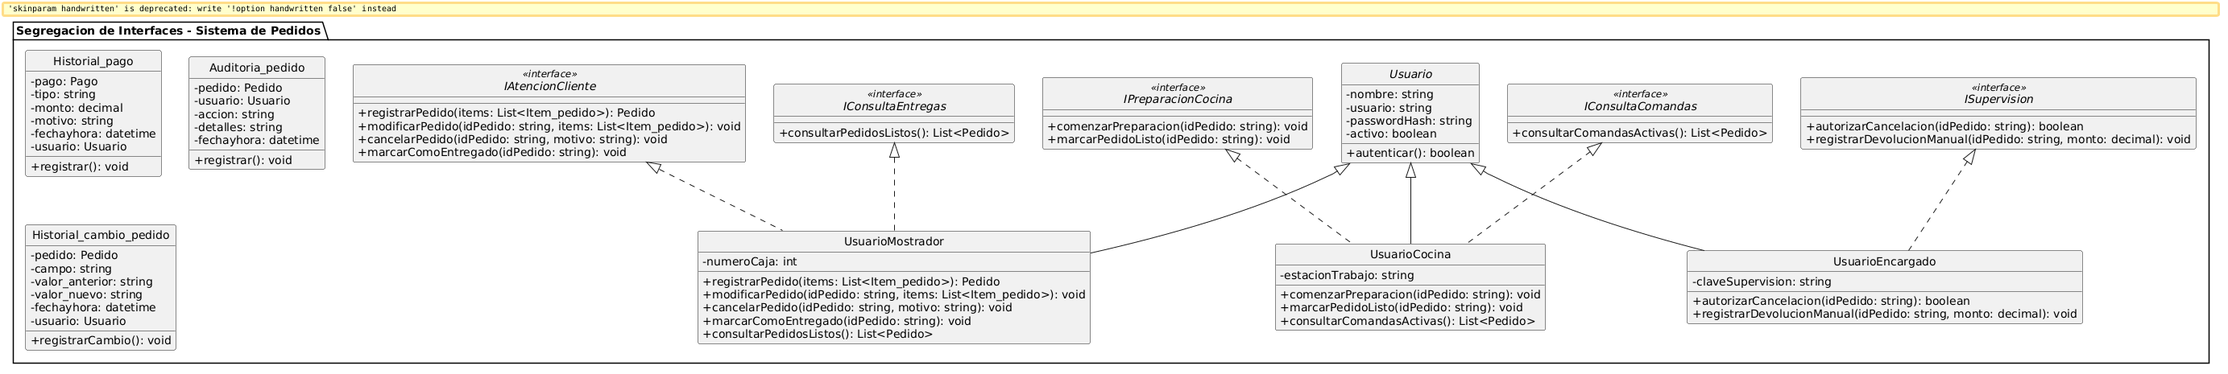
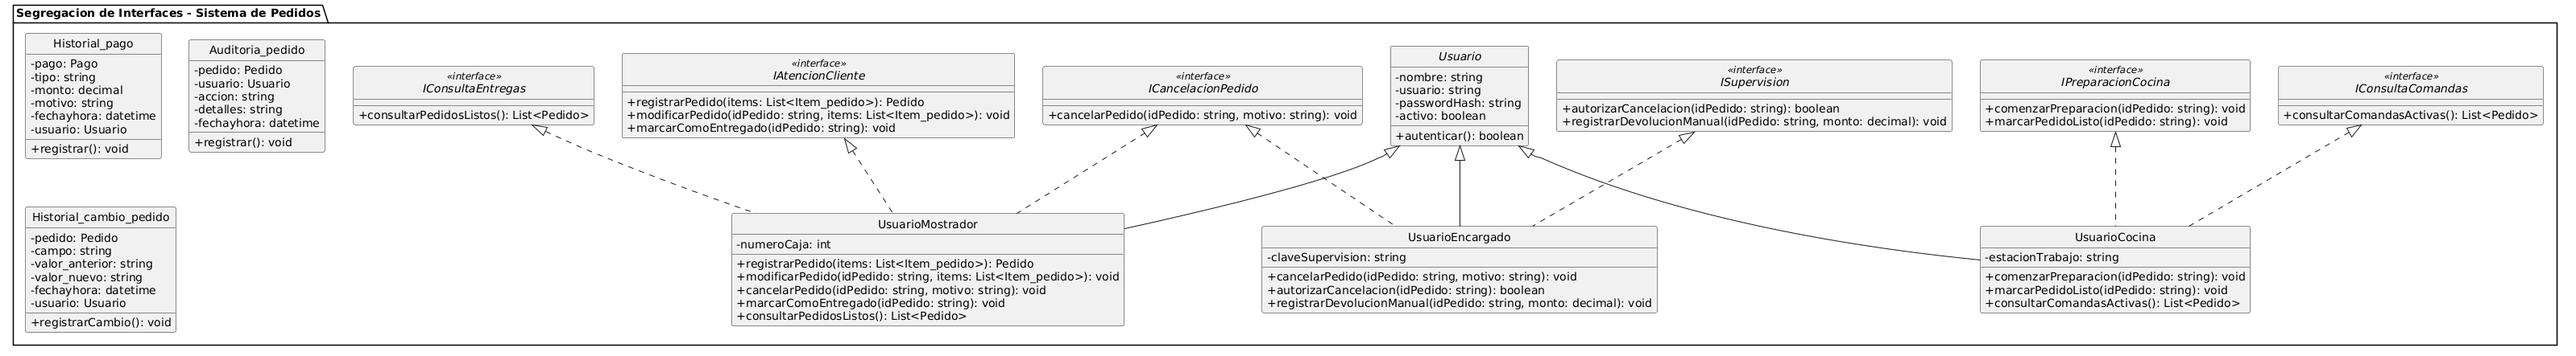
fix(isp): extraer ICancelacionPedido, reemplazar directiva obsoleta y regenerar PNG

diff --git a/anexos/principios-solid/04-isp.md b/anexos/principios-solid/04-isp.md
@@ -25,7 +25,7 @@ Si definiéramos una única interfaz monolítica de gestión operativa (por ejem
 Al intentar aplicar esta interfaz "gorda":
 1. **`UsuarioCocina`** solo necesita preparar los pedidos y consultar las comandas activas (`comenzarPreparacion()`, `marcarPedidoListo()`, `consultarComandasActivas()`). Al obligarlo a implementar una interfaz monolítica, se vería forzado a incluir métodos vacíos o lanzar excepciones para las otras 7 operaciones, como `autorizarCancelacion()` o `registrarPedido()`.
 2. **`UsuarioMostrador`** se encarga de la atención al cliente y cobro (`registrarPedido()`, `modificarPedido()`, `cancelarPedido()`, `marcarComoEntregado()`) y de consultar los pedidos listos para entregar (`consultarPedidosListos()`), pero no tiene la responsabilidad de autorizar cancelaciones ni supervisar estaciones de cocina, por lo que quedaría obligado a implementar otras 5 operaciones que no le corresponden.
-3. **`UsuarioEncargado`** realiza tareas avanzadas de supervisión como `autorizarCancelacion()` y `registrarDevolucionManual()`, y tendría que implementar las otras 8 operaciones sin necesitarlas.
+3. **`UsuarioEncargado`** participa en la cancelación de pedidos (`cancelarPedido()`) y realiza tareas avanzadas de supervisión como `autorizarCancelacion()` y `registrarDevolucionManual()`, y tendría que implementar las otras 7 operaciones sin necesitarlas.
 
 ### Ejemplo del problema (pseudocódigo)
 Con la interfaz monolítica, `UsuarioCocina` terminaría escribiendo código como el siguiente:
@@ -52,9 +52,9 @@ Cualquier código que reciba una `IGestionOperativa` podría invocar uno de esos
 
 | Clase | Métodos exigidos por la interfaz gorda | Métodos que realmente usa | Métodos innecesarios | Con interfaces segregadas |
 | :---- | :-: | :-: | :-: | :------------------------ |
-| `UsuarioMostrador` | 10 | 5 | 5 | Implementa `IAtencionCliente` e `IConsultaEntregas` (5 métodos) |
+| `UsuarioMostrador` | 10 | 5 | 5 | Implementa `IAtencionCliente`, `ICancelacionPedido` e `IConsultaEntregas` (5 métodos) |
 | `UsuarioCocina` | 10 | 3 | 7 | Implementa `IPreparacionCocina` e `IConsultaComandas` (3 métodos) |
-| `UsuarioEncargado` | 10 | 2 | 8 | Implementa solo `ISupervision` (2 métodos) |
+| `UsuarioEncargado` | 10 | 3 | 7 | Implementa `ICancelacionPedido` e `ISupervision` (3 métodos) |
 
 ### Registros y trazabilidad: por qué no se unifican
 Las clases `Historial_pago`, `Auditoria_pedido` e `Historial_cambio_pedido` registran hechos distintos: movimientos de dinero, acciones realizadas sobre un pedido y cambios de campos de un pedido, respectivamente. Aunque las tres exponen una operación de registro, **compartir un nombre de método no justifica una interfaz común**. Unificarlas bajo un contrato genérico (por ejemplo, `IRegistrable`) no aportaría beneficio alguno, porque ningún componente del sistema necesita tratarlas de forma polimórfica, y las obligaría a depender de un contrato que no refleja la naturaleza distinta de cada registro.
@@ -73,51 +73,8 @@ Para cumplir con el principio ISP en nuestro sistema, las interfaces operan como
 ## Estructura de Clases
 
 Para resolver la rigidez del diseño, se segregaron las responsabilidades de los usuarios en interfaces pequeñas y especializadas:
-- **`IAtencionCliente`**: Define las operaciones de atención en caja o mostrador (`registrarPedido()`, `modificarPedido()`, `cancelarPedido()`, `marcarComoEntregado()`).
+- **`IAtencionCliente`**: Define las operaciones de atención en caja o mostrador (`registrarPedido()`, `modificarPedido()`, `marcarComoEntregado()`).
+- **`ICancelacionPedido`**: Define la operación de cancelación de un pedido (`cancelarPedido()`), que el caso de uso *Cancelar pedido* (CU03) asigna tanto al usuario de mostrador como al encargado. Se separó de `IAtencionCliente` y de `ISupervision` para que cada actor dependa únicamente de la cancelación, sin cargar con las demás funciones de atención al cliente ni de supervisión.
 - **`IConsultaEntregas`**: Permite al mostrador consultar los pedidos que ya están listos para entregar (`consultarPedidosListos()`).
 - **`IPreparacionCocina`**: Contiene exclusivamente las operaciones de preparación en cocina (`comenzarPreparacion()`, `marcarPedidoListo()`).
-- **`IConsultaComandas`**: Permite a la cocina consultar las comandas activas pendientes de preparación (`consultarComandasActivas()`).
-- **`ISupervision`**: Agrupa únicamente los permisos y acciones avanzadas del encargado (`autorizarCancelacion()`, `registrarDevolucionManual()`).
-
-Las consultas se separaron por rol porque el caso de uso *Consultar Pedidos Activos* define vistas diferenciadas por actor: la cocina visualiza los pedidos en estado `RECIBIDO` y `EN_PREPARACION`, mientras que el mostrador visualiza los pedidos en estado `LISTO`. De esta forma, cada rol depende únicamente de la consulta que necesita.
-
-Las clases de registro (`Historial_pago`, `Auditoria_pedido` e `Historial_cambio_pedido`) no implementan interfaces: cada una mantiene su propia operación de registro (`registrar()` en `Historial_pago` y `Auditoria_pedido`, y `registrarCambio()` en `Historial_cambio_pedido`).
-
-### Relación entre clases, interfaces y casos de uso
-
-| Clase | Interfaces que implementa | Casos de uso relacionados |
-| :---- | :------------------------ | :------------------------ |
-| `UsuarioMostrador` | `IAtencionCliente`, `IConsultaEntregas` | Tomar pedido, Modificar pedido, Cancelar pedido (solicitud del cliente), Cambiar estado de `LISTO` a `ENTREGADO`, Consultar pedidos activos (vista de entregas) |
-| `UsuarioCocina` | `IPreparacionCocina`, `IConsultaComandas` | Cambiar estado de `RECIBIDO` a `EN_PREPARACION` y de `EN_PREPARACION` a `LISTO`, Consultar pedidos activos (vista de comandas) |
-| `UsuarioEncargado` | `ISupervision` | Cancelar pedido: autorización de cancelaciones en preparación y devoluciones manuales |
-
-### Diagrama UML - ISP
-
-![Diagrama UML - ISP](../../diagramas/01-diagrama-clases/01-solid-04-isp.png)
-
-> **Ver archivo de origen PlantUML:** [01-solid-04-isp.puml](../../diagramas/01-diagrama-clases/01-solid-04-isp.puml)
-
----
-
-## Relación con otros principios
-
-ISP también se aplica en otras partes del diseño, documentadas en sus respectivos anexos:
-- **`IElaborable` ([LSP](./03-lsp.md))**: contrato mínimo para lo que se puede preparar en cocina. Lo implementa solo `ProductoPreparado`, de modo que `ProductoEnvasado` no queda obligado a un método que no puede cumplir. No debe confundirse con `IPreparacionCocina`: `IElaborable` describe una capacidad de un **producto**, mientras que `IPreparacionCocina` describe las operaciones de un **rol de usuario**.
-- **`IElementoMenu` ([DIP](./05-dip.md))**: expone solo el nombre y el precio, que es lo único que `Item_pedido` necesita de un producto o combo.
-
-Siguiendo el criterio de no abstraer por anticipado, no se crearon interfaces para `Pago`, `Item_pedido` ni `Personalizacion_item`, ya que el diseño actual no muestra consumidores ni variantes que lo justifiquen.
-
----
-
-## Justificación Técnica
-Al observar la refactorización aplicada al diagrama UML del sistema, se constatan las siguientes ventajas técnicas:
-
-1. **Eliminación de interfaces "gordas":** Se descompusieron las responsabilidades operativas en interfaces cohesivas orientadas a cada rol operativo del sistema. Como muestra la comparación anterior, la interfaz monolítica obligaba a cada usuario a implementar entre 5 y 8 métodos que no le corresponden; con la segregación, cada clase implementa solo lo que usa.
-2. **Cohesión y Especificidad de Clases:**
-   - `UsuarioMostrador` implementa `IAtencionCliente` e `IConsultaEntregas`.
-   - `UsuarioCocina` implementa `IPreparacionCocina` e `IConsultaComandas`.
-   - `UsuarioEncargado` implementa únicamente `ISupervision`, ya que en los casos de uso su intervención se limita a autorizar cancelaciones y registrar devoluciones.
-   - `Historial_pago`, `Auditoria_pedido` e `Historial_cambio_pedido` no implementan interfaces, ya que registran hechos distintos y ningún consumidor del sistema las necesita bajo un mismo contrato.
-3. **Sin abstracciones innecesarias:** Al no crear una interfaz genérica de registro, se evita acoplar entidades de trazabilidad diferentes a un contrato que no representa una necesidad real, y se mantiene el diseño alineado con el análisis del [informe del especialista en ISP](../../ia/primer-parcial/especialista-isp.md).
-4. **Consistencia con los casos de uso:** Cada interfaz corresponde a operaciones definidas en los casos de uso del sistema, y las firmas del diagrama incluyen parámetros y tipos de retorno para que el contrato sea explícito.
-5. **Mantenibilidad y Mínimo Acoplamiento:** Si el día de mañana se modifica la lógica o la firma de los métodos en la interfaz de cocina (`IPreparacionCocina`), las clases de mostrador o encargado no se verán afectadas ni requerirán recompilación o ajustes.
+- **`IConsultaComandas`**: Permite a la cocina consultar las comandas activas pendientes de preparación
